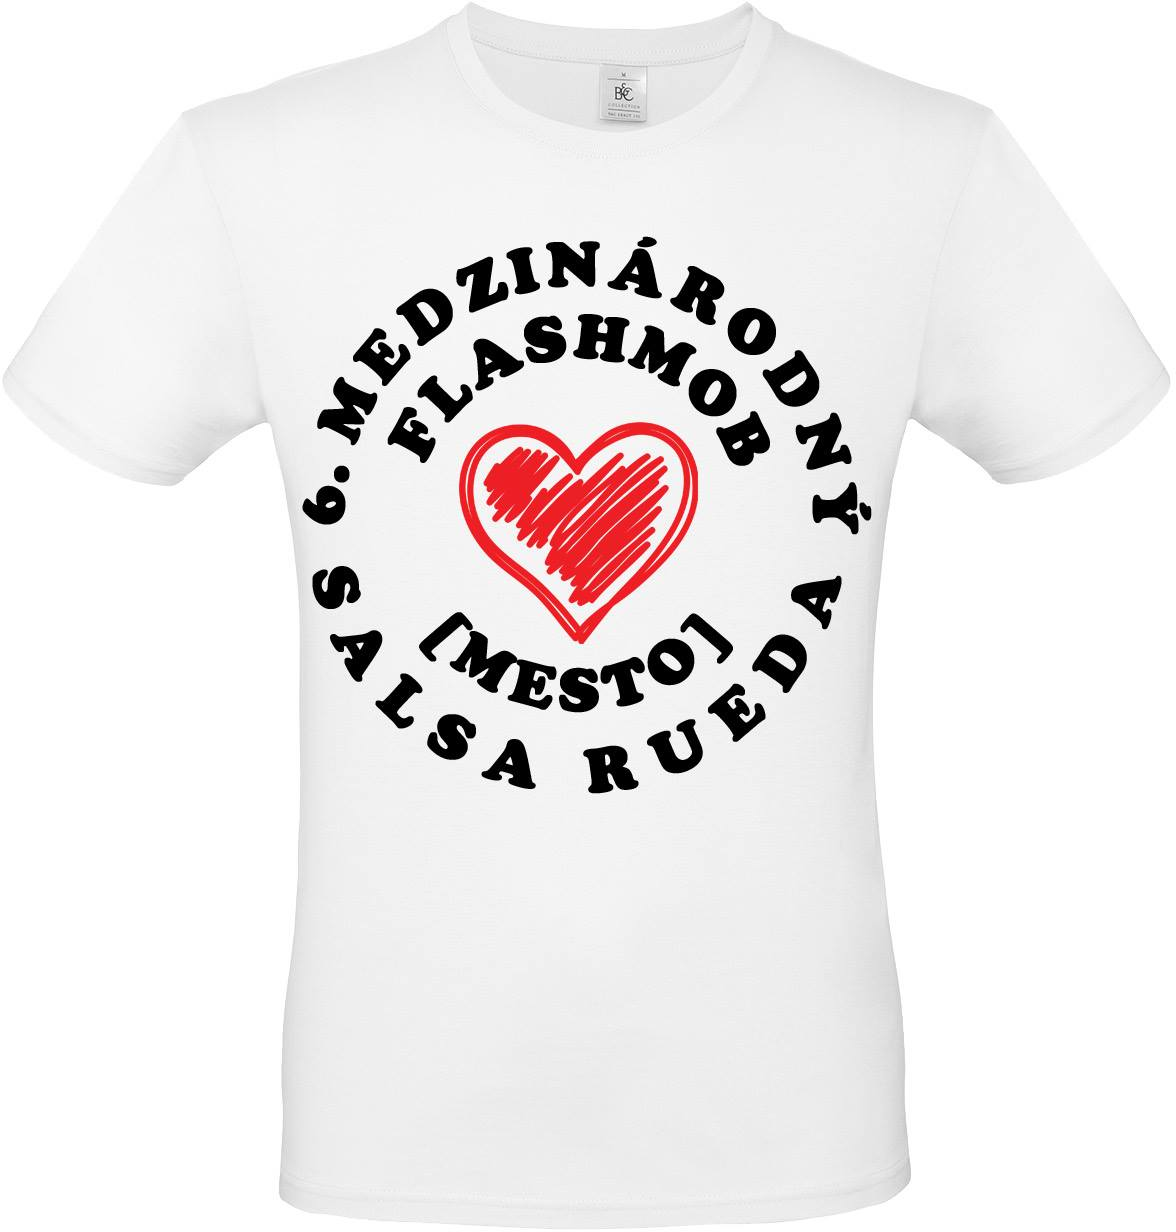
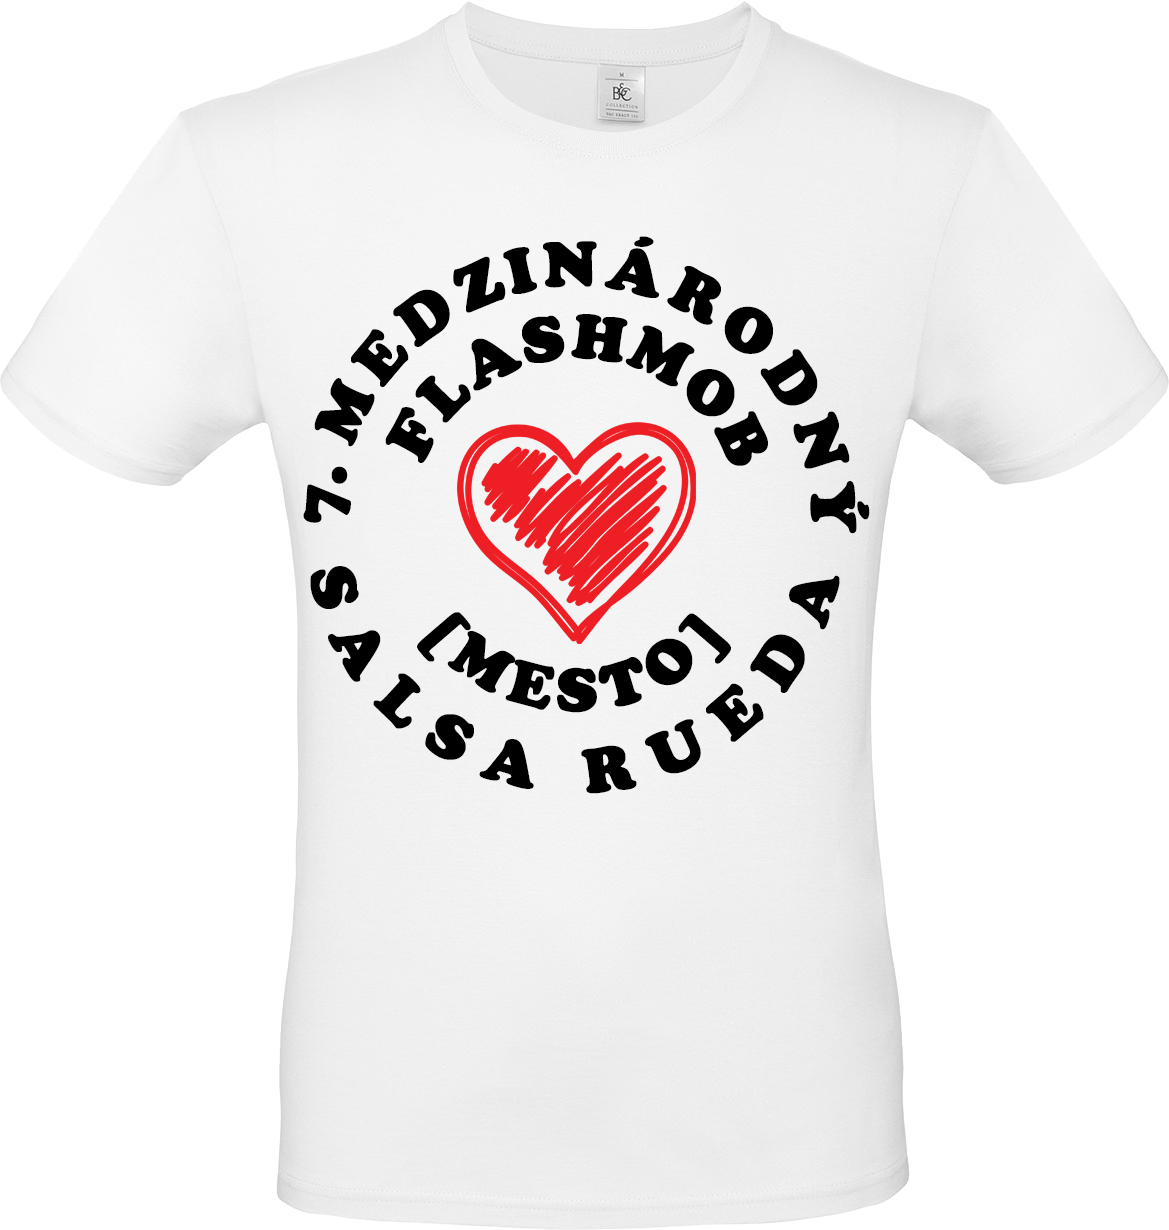
Added new intf t-shirts. Made sure the old ones are not shown from cache.

diff --git a/js/florp-form.js b/js/florp-form.js
@@ -949,7 +949,7 @@
     if ("undefined" !== typeof florp[strKey] && "undefined" !== typeof florp[strKey][strImgCitySlug] && florp[strKey][strImgCitySlug]) {
       strImgCitySlugLoc = strImgCitySlug
     }
-    return florp.img_path+strPrefix+"t-shirt-chest-"+color+"-"+strImgCitySlugLoc+".png"
+    return florp.img_path+strPrefix+"t-shirt-chest-"+color+"-"+strImgCitySlugLoc+".png?t="+(new Date()).getTime()
   }
   var fnGetTshirtPreviewImgPath = function( strImgCitySlug, color, bInternational = false ) {
     var strKey = "tshirt_imgs_full", strPrefix = ""
@@ -969,7 +969,7 @@
     } else {
       return fnGetTshirtImgPath( strImgCitySlug, color, bInternational )
     }
-    return florp.img_path+strPrefix+"t-shirt-"+color+"-"+strImgCitySlugLoc+".png"
+    return florp.img_path+strPrefix+"t-shirt-"+color+"-"+strImgCitySlugLoc+".png?t="+(new Date()).getTime()
   }
 
   function florpFixFormClasses() {
